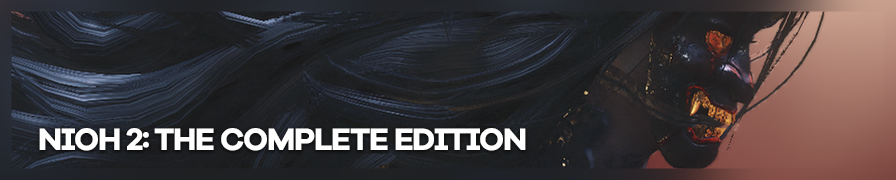
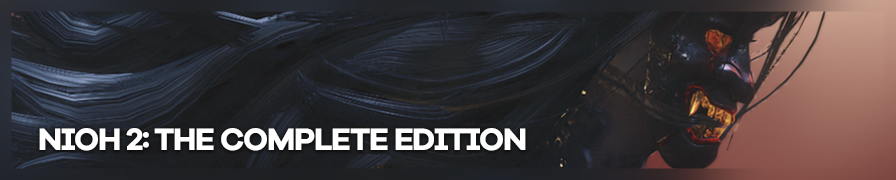
Updated FFVIIR guide & some headers
- added my own notes for FFVIIR
- updated some headers I didn't like after the overhaul
- fixed some aliasing issues in other headers

diff --git a/markdown/GameGuides/FFVIIR.md b/markdown/GameGuides/FFVIIR.md
@@ -7,7 +7,7 @@ Feature | Supported
 Vanilla Photo Mode | Yes (lol)
 Ansel | No
 Hotsampling | No
-DSR | Yes*
+DSR | Yes ([see notes](#dsr))
 Custom Aspect Ratios | No
 Reshade | Yes
 Graphics API | DirectX 11 and DirectX 12
@@ -15,52 +15,62 @@ Graphics API | DirectX 11 and DirectX 12
 ## Tools
 
 * [Universal Unreal Engine Unlocker v4.1.7 or later by Otis_Inf](https://patreon.com/Otis_Inf)  
-**Features**: Camera, fov, timestop, gamespeed, custom lights.
+**Features**: Camera, FoV, timestop, gamespeed, custom lights.
 
 * [Cheat table by Otis_Inf and Skall](https://patreon.com/Otis_Inf)  
-**Features**: Hud toggle, DoF control, Wider FoV during gameplay, control over some CVars. This table is available on Otis_Inf's patreon. 
+**Features**: HUD toggle, DoF control, Wider FoV during gameplay, control over some CVars. This table is available on Otis_Inf's patreon. 
+
+* [FFVIIHook by emoose](https://www.nexusmods.com/finalfantasy7remake/mods/74)  
+**Features**: Enables console and [use of WindowsNoEditor .ini files](./GeneralGuides/ue4guide.htm#engine-renderer-settings).
 
 ## Characteristics
 
 ### Custom lights with the UUU
-The UUU allows you to create custom lights in the game. The lights might not be visible at first, because the default light intensity is
-very low (20). To see the light, increase the intensity of the light a lot. To be able to set a high value for the light intensity you might also want
-to increase the light intensity max value. 
 
-Most features of the UE4 lights work, pay close attention to the inner cone width, which is often set to the same value as the outer cone width, giving a 
-hard edge to the light. 
+The UUU allows you to create custom lights in the game. The lights might not be visible at first, because the default light intensity is very low (20). To see the light, increase the intensity of the light by a lot (like into the millions a lot). To be able to set a higher value for the light intensity, you might also want to increase the light intensity max value. 
+
+Most features of the UE4 lights work, pay close attention to the inner cone width, which is often set to the same value as the outer cone width, giving a hard edge to the light. 
+
+A very low shadow bias (near 0) might be required for shadows to show up.
 
 @alert info
 In some areas, like certain rooms, it might be lights don't work; no matter how high you set the intensity, no light will appear. 
 @end
 
 ### DoF Control
-The cheat table allows you to control the DoF *when it's enabled in-game*. So when the DoF is visible in-game, like in a cutscene, you can control
-it with the controls in the cheat table. `Ctrl-F1` toggles the control over the in-game DoF in that situation. It won't turn on the DoF in gameplay however if it's not
-already enabled by the game. If you want to have DoF in gameplay, you have to use reshade. 
+
+The cheat table allows you to control the DoF *when it's enabled in-game*. So when the DoF is visible in-game, like in a cutscene, you can control it with the cheat table. `Ctrl-F1` toggles the control over the in-game DoF in that situation. It won't turn on the DoF in gameplay however if it's not already enabled by the game. If you want to have DoF in gameplay, you have to use Reshade DOFs. 
 
 #### Updating the DoF values when the game is paused
-The UUU has two pause functions: `Numpad 0` (UWorld pause) and `PageDown` (Slowmo pause). For Final Fantasy VII Remake, both are usable, however when you
-want to control the in-game DoF, `PageDown` is preferable: when you pause the game using `Numpad 0` and change the DoF values using the cheat table, nothing
-happens till you skip a frame, using `PageUp`. When you pause the game with `PageDown` however, changing the DoF values will show immediately effect and you can
-easily control where to set the focal point.
+
+The UUU has two pause functions: `Numpad 0` (UWorld pause) and `PageDown` (Slowmo pause). For Final Fantasy VII Remake, both are usable, however when you want to control the in-game DoF, `PageDown` is preferable: when you pause the game using `Numpad 0` and change the DoF values using the cheat table, nothing happens till you skip a frame, using `PageUp`. When you pause the game with `PageDown` however, changing the DoF values will show immediately effect and you can easily control where to set the focal point.
 
 ### Pausing the game
-To pause the game to take shots, always try to use `PageDown` first. This only goes wrong when you move your character in some situations. In that case press `Numpad 0` to pause. 
+
+To pause the game to take shots, always try to use `PageDown` first. This only goes wrong when you move your character in some situations, like in combat. In that case, the `Numpad 0` pause works better. 
 
 ## Features of the UUU that aren't supported
 
-- No hotsampling. There's no hotsampling support of any kind. The game is also running into issues with resolutions higher than 4K. 
-- No console input. While the UUU does activate the UE4 dev console, keyboard input isn't reaching the console if the key is used by the game, e.g. enter. 
-- No hud toggle. The hud is made with a 3rd party library and the UUU can't hide it. To hide the hud, use the cheat table's Hud toggle. 
+- No hotsampling. None at all. You can only DSR up to 4K.
+- No console input. While the UUU does activate the UE4 dev console, keyboard input isn't reaching the console if the key is used by the game, e.g. enter. This is solved with FFVIIHook, which allows you to use the console normally.
+- No HUD toggle. The HUD is made with a 3rd party library and the UUU can't hide it. To hide the HUD, use the cheat table's HUD toggle or [ShaderToggler](./ReshadeGuides/Addons/shader_toggler_repository.htm). 
+- (*v4.4.0 and above*) Limited control over in-game post-processing using the *Post-processing* tab.
+
+#### UUU Ultrawide
+
+The UUU can enable ultrawide support in UE4 games, however this doesn't work as expected in FFVIIR due to the strict 16:9 limitation. If you run an ultrawide monitor, upon injecting the UUU, your game will become squished. It can be unsquished by choosing a 16:9 hotsampling resolution.
 
 ## DSR
 
-**Borderless Fullscreen DSR only** - with an option to set resolution scaling as a percentage of the current screen resolution. Use this option to increase image quality of screenshots (this will not affect the final size of the screenshot).
+**Borderless Fullscreen DSR by default** - with an option to set resolution scaling as a percentage of the current screen resolution. Use this option to increase image quality of screenshots (this will not affect the final size of the screenshot). 
 
-You cannot save screenshots any higher than your current desktop resolution, regardless of the resolution set in the in-game options. Make sure your desktop resolution matches the size you wish your screenshots to be.
+It is possible to force exclusive fullscreen with FFVIIHook, the game set to run in DX11 mode, and a modified `Engine.ini` with this line: `r.SetRes=3840x2160f`. Appending `f`, `wf` or `w` at the end of the specified resolution forces fullscreen, borderless fullscreen and windowed modes respectively.
 
-### Useful Links
+Additionally, launching the game with `r.SetRes=3840x2160` causes the game to start at 3840x2160, no matter your current desktop resolution. You can then use a tool like SRWE and downscale the window to fit within your monitor. This allows you to capture 4K shots without needing to DSR your entire desktop. 
+
+Despite `r.ScreenPercentage` being exposed by the cheat table and FFVIIHook, it seems that setting it higher than an internal resolution of 4096 causes bright green artifacts to appear.
+
+## Useful Links
 
 * [PC Gaming Wiki](https://www.pcgamingwiki.com/wiki/Final_Fantasy_VII_Remake_Intergrade)
-* [Change or summon non-mainline characters](https://www.nexusmods.com/finalfantasy7remake/mods/92)
+* [Change or summon non-mainline characters](https://www.nexusmods.com/finalfantasy7remake/mods/92) (Nexus Mods)

diff --git a/markdown/ReshadeGuides/Addons/shader_toggler_repository.md b/markdown/ReshadeGuides/Addons/shader_toggler_repository.md
@@ -14,27 +14,28 @@ To use these shader togglers make sure to rename the `.ini` file you are going t
 Game | Features | Extra Description
 --|--|--
 [Assassin's Creed Origins](../../ShaderTogglers/assassins_creed_origins.ini) | - Remove head distortion (`Shift` + `6`)<br> - Chromatic aberration (`Shift` + `7`)
-[Assassin's Creed Valhalla](../../ShaderTogglers/assassins_creed_valhalla.ini) | - Hud (`Caps Lock`)<br> - Eivor, NPCs and animals (`Shift` + `F4`)<br> - Vertical line markers in the world (`Shift` + `F5`)<br> - Rain (`Shift` + `F6`)
+[Assassin's Creed Valhalla](../../ShaderTogglers/assassins_creed_valhalla.ini) | - HUD (`Caps Lock`)<br> - Eivor, NPCs and animals (`Shift` + `F4`)<br> - Vertical line markers in the world (`Shift` + `F5`)<br> - Rain (`Shift` + `F6`)
 [Batman: Arkham Knight](../../ShaderTogglers/batman_arkham_knight.ini) | Rain and rain bounce toggle (`Caps Lock`)
 [Bayonetta](../../ShaderTogglers/bayonetta.ini) | Pause menu + In Game UI + Effects (`Caps Lock`)
-[Call of Juarez: Gunslinger](../../ShaderTogglers/call_of_juarez_gunslinger.ini) |  - Hud/Border (`F2`) <br> - Collor Correction (`F3`) <br> - Cell Shading Toggle (`F4`)
-[CONTROL](../../ShaderTogglers/control.ini) | Hud Toggle (`Caps Lock`)
+[Call of Juarez: Gunslinger](../../ShaderTogglers/call_of_juarez_gunslinger.ini) |  - HUD/Border (`F2`) <br> - Collor Correction (`F3`) <br> - Cell Shading Toggle (`F4`)
+[CONTROL](../../ShaderTogglers/control.ini) | HUD Toggle (`Caps Lock`)
 [Cyberpunk 2077](../../ShaderTogglers/cyberpunk_2077.ini) | HUD  (and some advertisement displays) (`Caps Lock`)
 [Death Stranding: Director's Cut](../../ShaderTogglers/death_stranding_directors_cut.ini) | Screen dirt, HUD, Odradek ping effects, Chiral Network boundary lines, Lost parcel glow, location lines, destination guide lines and footsteps (`F3`) | Player added icons dont hide for some reason
-[Destroy all humans!](../../ShaderTogglers/destroyallhumans.ini) | Full hud Toggle (`Caps Lock`)
-[Elden Ring](../../ShaderTogglers/elden_ring.ini) | - Hides Sites Of Grace (`Caps Lock`)<br>- Hides rain, floaty leaves(?) and (SPOILER) end game ash (`F2`)<br> - Hides gold and grey fog walls (`F3`)<br> - HUD (`K`) <br> - Fog (`Caps Lock`)<br> - Bloom (`[`) <br> - Direct lighting/character back lighting (`]`) | Hiding Sites Of Grace also hides some other light sources such as candles and torches, cant be avoided.
+[Destroy All Humans!](../../ShaderTogglers/destroyallhumans.ini) | Full HUD Toggle (`Caps Lock`)
 [Dying Light 2](../../ShaderTogglers/dying_light_2.ini) | - Lens flare and screen dirt (`Caps Lock`)<br> - Hides air vents and floaty debris (but also inadvertently hides some other smoke and fire sources) (`F2`) <br> - Hides Distant Birds (`F3`) <br> - Hides HUD (`F4`) <br> - Just floaty debris (`F5`)
-[Ghostwire: Tokyo](../../ShaderTogglers/ghostwire_tokyo.ini) | Hud and DOF toggle (`Caps Lock`)
-[God Of War](../../ShaderTogglers/god_of_war.ini) | Snow toggle (`Caps Lock`)
+[Elden Ring](../../ShaderTogglers/elden_ring.ini) | - Hides Sites Of Grace (`Caps Lock`)<br>- Hides rain, floaty leaves(?) and (SPOILER) end game ash (`F2`)<br> - Hides gold and grey fog walls (`F3`)<br> - HUD (`K`) <br> - Fog (`Caps Lock`)<br> - Bloom (`[`) <br> - Direct lighting/character back lighting (`]`) | Hiding Sites Of Grace also hides some other light sources such as candles and torches, cant be avoided.
+[Final Fantasy VII Remake](../../ShaderTogglers/FFVIIR.ini) | HUD (`Del`)
+[Ghostwire: Tokyo](../../ShaderTogglers/ghostwire_tokyo.ini) | HUD and DOF toggle (`Caps Lock`)
+[God of War](../../ShaderTogglers/god_of_war.ini) | Snow toggle (`Caps Lock`)
 [Horizon Zero Dawn](../../ShaderTogglers/horizon_zero_dawn.ini) | - Rain: (`Caps Lock`) <br> - Bloom (`Shift` + `X`) <br> - HUD (`Shift` + `Q`) | - Rain: Could not find and remove the raindrops bouncing off of the ground <br> - Bloom: Both from fire sources and machines <br> - HUD: Both the main game ones and also the item drops / loot HUD popups 
-[LEGO Star Wars The Skywalker Saga](../../ShaderTogglers/lego_star_wars_skywalker_saga.ini) | - HUD (`K`) <br> - Object outlines (may hide some tiny cubemaps) (`L`) <br>  - Coins & their shadows (may hide other shadows) (`;`) <br> - Lens flares (`Numpad 7`)<br> - Hide characters (WIP due to massive variety) (`Shift` + `2`)
-[Matrix Awakens](../../ShaderTogglers/matrix_awakens.ini) | Hud Toggle (`Caps Lock`) | Hide the speedo whilst driving
-[Shadow of the Tomb Raider](../../ShaderTogglers/SOTTR.ini) | Hud Toggle (`Caps Lock`)
-[Sherlock Holmes: The Devil's Daughter](../../ShaderTogglers/sherlock_holmes_devils_daughter.ini) | Hud and DOF toggle (`Caps Lock`)
-[Singularity](../../ShaderTogglers/singularity.ini) | - Hud toggle (`Capslock`)<br> - Rain toggle (`Ctrl`+`1`)
+[LEGO Star Wars: The Skywalker Saga](../../ShaderTogglers/lego_star_wars_skywalker_saga.ini) | - HUD (`K`) <br> - Object outlines (may hide some tiny cubemaps) (`L`) <br>  - Coins & their shadows (may hide other shadows) (`;`) <br> - Lens flares (`Numpad 7`)<br> - Hide characters (WIP due to massive variety) (`Shift` + `2`)
+[Matrix Awakens](../../ShaderTogglers/matrix_awakens.ini) | HUD Toggle (`Caps Lock`) | Hide the speedo whilst driving
+[Shadow of the Tomb Raider](../../ShaderTogglers/SOTTR.ini) | HUD Toggle (`Caps Lock`)
+[Sherlock Holmes: The Devil's Daughter](../../ShaderTogglers/sherlock_holmes_devils_daughter.ini) | HUD and DOF toggle (`Caps Lock`)
+[Singularity](../../ShaderTogglers/singularity.ini) | - HUD toggle (`Capslock`)<br> - Rain toggle (`Ctrl`+`1`)
 [Spider-Man Remastered](../../ShaderTogglers/spider_man_remastered.ini) | Complete HUD Toggle (`Delete`)
 [Submerged: Hidden Depths](../../ShaderTogglers/submerged_hidden_depths.ini) | Rain and raindrops (`Caps Lock`)
-[The Quarry](../../ShaderTogglers/thequarry.ini) | Toggles only the glowing shader pillar and sprite at the top, the mouse icon is handled by UUU Hud Toggle. (`F1`) | Remember to turn it back on otherwise it's easy to miss key items.
+[The Quarry](../../ShaderTogglers/thequarry.ini) | Toggles only the glowing shader pillar and sprite at the top, the mouse icon is handled by UUU HUD Toggle. (`F1`) | Remember to turn it back on otherwise it's easy to miss key items.
 [The Vanishing of Ethan Carter Redux](../../ShaderTogglers/vanishing_ethan_carter_redux.ini) | - Hide blue mist (`Y`)<br> - Hide floating texts (`X`)<br> - Hide fog (`V`)<br> - Hide main menu (`Del`)
 
 *Have a shader toggler that you want to include? Head up to the [issue site page](https://github.com/framedsc/Sitesource/issues) and create an issue with your shader toggler, or [contact one of the mods](https://framedsc.com/index.htm).*
